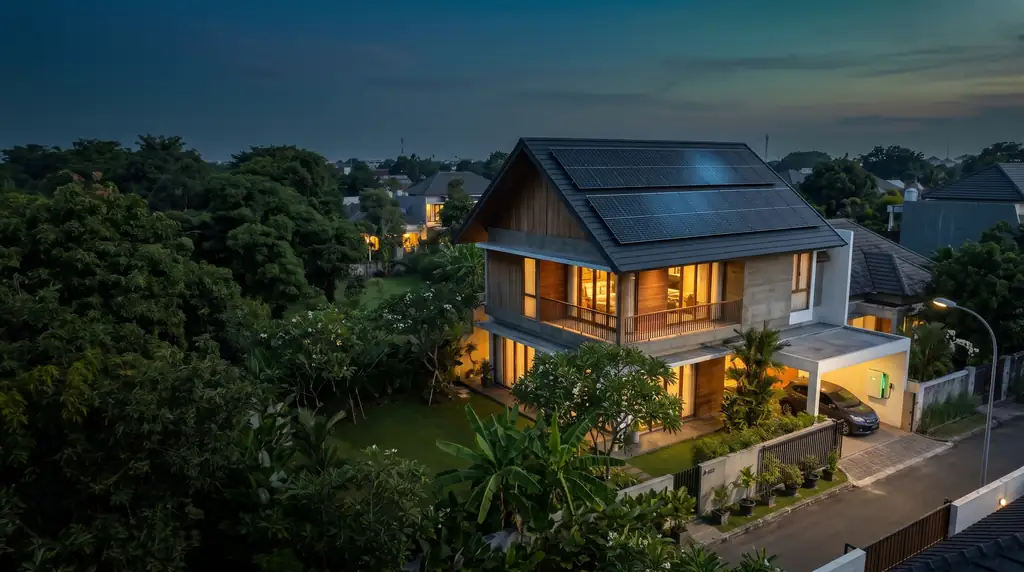
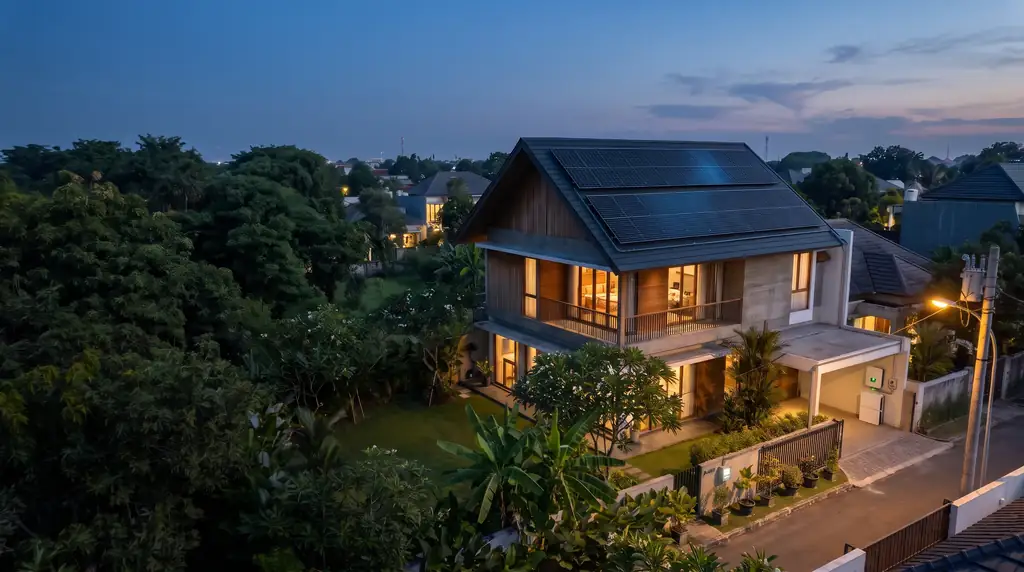
Prototipe v2: jalur energi mengikuti instalasi di foto baru
Foto hero baru menampilkan inverter, baterai, dan tiang PLN. Jalur garis
dipetakan ulang ke talang sudut rumah, balok carport, dan kabel tiang PLN
dengan tikungan membulat; label inverter & baterai digabung agar tidak
menutupi jalur. Di HP label hanya menampilkan nama komponen.

Claude-Session: https://claude.ai/code/session_01VGjVgo1ZXhKMPvog3v1oXV

diff --git a/prototypes/landing-plts-hybrid.html b/prototypes/landing-plts-hybrid.html
@@ -73,7 +73,7 @@ p{margin:0;text-wrap:pretty}
 /* Panggung foto: meniru object-fit:cover + object-position, supaya garis SVG & label
    menempel tepat di koordinat foto (1920×1072) di ukuran layar mana pun. */
 .hero-media{position:absolute;inset:0;z-index:-2;container-type:size;overflow:hidden}
-.stage{--pos:.62;--w:max(100cqw,calc(100cqh * 1.791));--h:max(100cqh,calc(100cqw / 1.791));position:absolute;width:var(--w);height:var(--h);left:calc((100cqw - var(--w)) * var(--pos));top:calc((100cqh - var(--h)) * .5)}
+.stage{--pos:.9;--w:max(100cqw,calc(100cqh * 1.791));--h:max(100cqh,calc(100cqw / 1.791));position:absolute;width:var(--w);height:var(--h);left:calc((100cqw - var(--w)) * var(--pos));top:calc((100cqh - var(--h)) * .5)}
 .stage img{position:absolute;inset:0;width:100%;height:100%;opacity:0;transition:opacity .8s var(--ease)}
 .stage img.is-active{opacity:1}
 .hero::before{content:"";position:absolute;inset:0;z-index:-1;pointer-events:none;
@@ -93,6 +93,7 @@ p{margin:0;text-wrap:pretty}
 .line .halo,.line .core{stroke:currentColor}
 .line.on{opacity:1}
 .line.on .pulse{animation:pulse 1.6s linear infinite}
+.line.rev .pulse{animation-direction:reverse}
 .line.standby{opacity:.35}
 .line.standby .pulse,.line.cut .pulse{display:none}
 .line.cut{opacity:.8;color:#ff8a7a}
@@ -155,12 +156,13 @@ p{margin:0;text-wrap:pretty}
   .hero-lead{display:none}
   .hero-media{position:relative;order:1;inset:auto;height:clamp(300px,92vw,440px);z-index:0}
   .hero-media::after{content:"";position:absolute;inset:0;pointer-events:none;background:linear-gradient(180deg,var(--navy-950) 0%,rgb(4 33 46 / 0) 18%,rgb(4 33 46 / 0) 80%,var(--navy-950) 100%)}
-  .stage{--pos:.88}
+  .stage{--pos:.95}
   .line .halo{stroke-width:30}.line .core{stroke-width:8}.line .pulse{stroke-width:8;stroke-dasharray:28 92}
   @keyframes pulse{to{stroke-dashoffset:-120}}
   .tag{padding:5px 9px 6px;border-radius:9px}
   .tag b{font-size:.75rem}
-  .tag span{font-size:.7rem}
+  .tag span{display:none}
+  .spot[data-spot="pln"] .tag{right:-6px;bottom:auto;top:14px}
   .hero-foot{order:2;padding-top:16px}
   .mode-bar{flex-direction:column;align-items:flex-start}
   .mode-switch button{padding:0 12px;font-size:.875rem}
@@ -280,26 +282,27 @@ section{padding-block:var(--section)}
       <!-- Koordinat mengikuti foto 1920×1072 -->
       <svg class="energy" viewBox="0 0 1920 1072" preserveAspectRatio="none" aria-hidden="true">
         <g class="line" data-line="surya">
-          <path class="halo"  d="M1490 424 L1588 446 L1588 640 L1628 690"/>
-          <path class="core"  d="M1490 424 L1588 446 L1588 640 L1628 690"/>
-          <path class="pulse" d="M1490 424 L1588 446 L1588 640 L1628 690"/>
+          <path class="halo" d="M1500 430 L1534.4 439.0 Q1546 442 1557.6 445.2 L1570.4 448.8 Q1582 452 1582.0 464.0 L1582.0 650.0 Q1582 662 1594.0 662.0 L1626.0 662.0 Q1638 662 1638.0 674.0 L1638 686"/>
+          <path class="core" d="M1500 430 L1534.4 439.0 Q1546 442 1557.6 445.2 L1570.4 448.8 Q1582 452 1582.0 464.0 L1582.0 650.0 Q1582 662 1594.0 662.0 L1626.0 662.0 Q1638 662 1638.0 674.0 L1638 686"/>
+          <path class="pulse" d="M1500 430 L1534.4 439.0 Q1546 442 1557.6 445.2 L1570.4 448.8 Q1582 452 1582.0 464.0 L1582.0 650.0 Q1582 662 1594.0 662.0 L1626.0 662.0 Q1638 662 1638.0 674.0 L1638 686"/>
         </g>
         <g class="line" data-line="rumah">
-          <path class="halo"  d="M1622 712 L1505 712 L1460 676 L1330 676 L1330 600"/>
-          <path class="core"  d="M1622 712 L1505 712 L1460 676 L1330 676 L1330 600"/>
-          <path class="pulse" d="M1622 712 L1505 712 L1460 676 L1330 676 L1330 600"/>
+          <path class="halo" d="M1622 696 L1560.0 696.0 Q1548 696 1548.0 684.0 L1548.0 670.0 Q1548 658 1536.0 658.0 L1380 658"/>
+          <path class="core" d="M1622 696 L1560.0 696.0 Q1548 696 1548.0 684.0 L1548.0 670.0 Q1548 658 1536.0 658.0 L1380 658"/>
+          <path class="pulse" d="M1622 696 L1560.0 696.0 Q1548 696 1548.0 684.0 L1548.0 670.0 Q1548 658 1536.0 658.0 L1380 658"/>
         </g>
         <g class="line" data-line="pln">
-          <path class="halo"  d="M1920 668 L1735 708 L1662 716"/>
-          <path class="core"  d="M1920 668 L1735 708 L1662 716"/>
-          <path class="pulse" d="M1920 668 L1735 708 L1662 716"/>
+          <path class="halo" d="M1825 548 L1704.4 618.0 Q1694 624 1694.0 636.0 L1694.0 692.0 Q1694 704 1682.0 704.0 L1656 704"/>
+          <path class="core" d="M1825 548 L1704.4 618.0 Q1694 624 1694.0 636.0 L1694.0 692.0 Q1694 704 1682.0 704.0 L1656 704"/>
+          <path class="pulse" d="M1825 548 L1704.4 618.0 Q1694 624 1694.0 636.0 L1694.0 692.0 Q1694 704 1682.0 704.0 L1656 704"/>
         </g>
       </svg>
 
-      <div class="spot" data-spot="panel"   style="--x:1490;--y:424"><div class="tag l"><b>Panel surya</b><span data-state="panel"></span></div></div>
-      <div class="spot" data-spot="baterai" style="--x:1638;--y:718"><div class="tag b"><b>Inverter &amp; baterai</b><span data-state="baterai"></span></div></div>
-      <div class="spot" data-spot="rumah"   style="--x:1330;--y:600"><div class="tag l"><b>Rumah</b><span data-state="rumah"></span></div></div>
-      <div class="spot" data-spot="pln"     style="--x:1760;--y:702"><div class="tag tl"><b>PLN</b><span data-state="pln"></span></div></div>
+      <div class="spot" data-spot="panel"    style="--x:1500;--y:430"><div class="tag l"><b>Panel surya</b><span data-state="panel"></span></div></div>
+      <div class="spot" data-spot="inverter" style="--x:1638;--y:705"></div>
+      <div class="spot" data-spot="baterai"  style="--x:1634;--y:768"><div class="tag b"><b>Inverter &amp; baterai</b><span data-state="baterai"></span></div></div>
+      <div class="spot" data-spot="rumah"    style="--x:1380;--y:658"><div class="tag l"><b>Rumah</b><span data-state="rumah"></span></div></div>
+      <div class="spot" data-spot="pln"      style="--x:1825;--y:540"><div class="tag tl"><b>Tiang PLN</b><span data-state="pln"></span></div></div>
     </div>
   </div>
   <p class="sr-only" data-hero-alt aria-live="polite"></p>
@@ -496,23 +499,23 @@ section{padding-block:var(--section)}
     siang: {
       label: 'Siang',
       caption: 'Panel memasok rumah sekaligus mengisi baterai.',
-      alt: 'Siang hari: listrik dari panel surya di atap mengalir ke inverter dan baterai di carport, lalu ke rumah. PLN siaga.',
+      alt: 'Siang hari: listrik dari panel surya di atap turun lewat pipa kabel ke inverter di carport, lalu ke rumah; kelebihannya mengisi baterai. PLN siaga.',
       lines: {surya:['on',C.solar], rumah:['on',C.solar], pln:['standby',C.grid]},
-      spots: {panel:[C.solar,'Menghasilkan listrik'], baterai:[C.solar,'Mengisi baterai'], rumah:[C.solar,'Pakai energi surya'], pln:[C.grid,'Siaga',1]}
+      spots: {panel:[C.solar,'Menghasilkan listrik'], inverter:[C.solar], baterai:[C.solar,'Mengisi baterai'], rumah:[C.solar,'Pakai energi surya'], pln:[C.grid,'Siaga',1]}
     },
     malam: {
       label: 'Malam',
       caption: 'Baterai memasok rumah. PLN hanya cadangan.',
-      alt: 'Malam hari: baterai yang terisi siang tadi memasok rumah. Panel tidak aktif, PLN hanya cadangan.',
+      alt: 'Malam hari: baterai yang terisi siang tadi memasok rumah lewat inverter. Panel tidak aktif, PLN hanya cadangan.',
       lines: {surya:['off'], rumah:['on',C.battery], pln:['standby',C.grid]},
-      spots: {panel:[C.grid,'Tidak aktif',1], baterai:[C.battery,'Memasok rumah'], rumah:[C.battery,'Pakai energi baterai'], pln:[C.grid,'Cadangan',1]}
+      spots: {panel:[C.grid,'Tidak aktif',1], inverter:[C.battery], baterai:[C.battery,'Baterai memasok rumah'], rumah:[C.battery,'Pakai energi baterai'], pln:[C.grid,'Cadangan',1]}
     },
     padam: {
       label: 'PLN Padam',
       caption: 'Lingkungan gelap, rumah Anda tetap menyala dari baterai.',
-      alt: 'PLN padam: rumah-rumah sekitar gelap. Inverter memutus sambungan PLN dan baterai memasok rumah sehingga tetap menyala.',
+      alt: 'PLN padam: rumah-rumah sekitar gelap. Inverter memutus sambungan ke tiang PLN dan baterai memasok rumah sehingga tetap menyala.',
       lines: {surya:['off'], rumah:['on',C.battery], pln:['cut']},
-      spots: {panel:[C.grid,'Tidak aktif',1], baterai:[C.battery,'Mode cadangan'], rumah:[C.battery,'Tetap menyala'], pln:[C.off,'Padam · diputus otomatis']}
+      spots: {panel:[C.grid,'Tidak aktif',1], inverter:[C.battery], baterai:[C.battery,'Mode cadangan otomatis'], rumah:[C.battery,'Tetap menyala'], pln:[C.off,'Padam · diputus otomatis']}
     }
   };
   const ICON = {
@@ -541,15 +544,15 @@ section{padding-block:var(--section)}
     hero.querySelector('[data-hero-alt]').textContent = m.alt;
     Object.entries(m.lines).forEach(([k, [state, color]]) => {
       const g = hero.querySelector(`[data-line="${k}"]`);
-      g.classList.remove('on','standby','cut');
-      if (state !== 'off') g.classList.add(state);
+      g.classList.remove('on','standby','cut','rev');
+      if (state !== 'off') g.classList.add(...state.split(' '));
       if (color) g.style.setProperty('--c', color);
     });
     Object.entries(m.spots).forEach(([k, [color, text, dim]]) => {
       const s = hero.querySelector(`[data-spot="${k}"]`);
       s.style.setProperty('--c', color);
       s.classList.toggle('dim', !!dim);
-      s.querySelector(`[data-state="${k}"]`).textContent = text;
+      const st = s.querySelector(`[data-state="${k}"]`); if (st) st.textContent = text;
     });
   }
 
